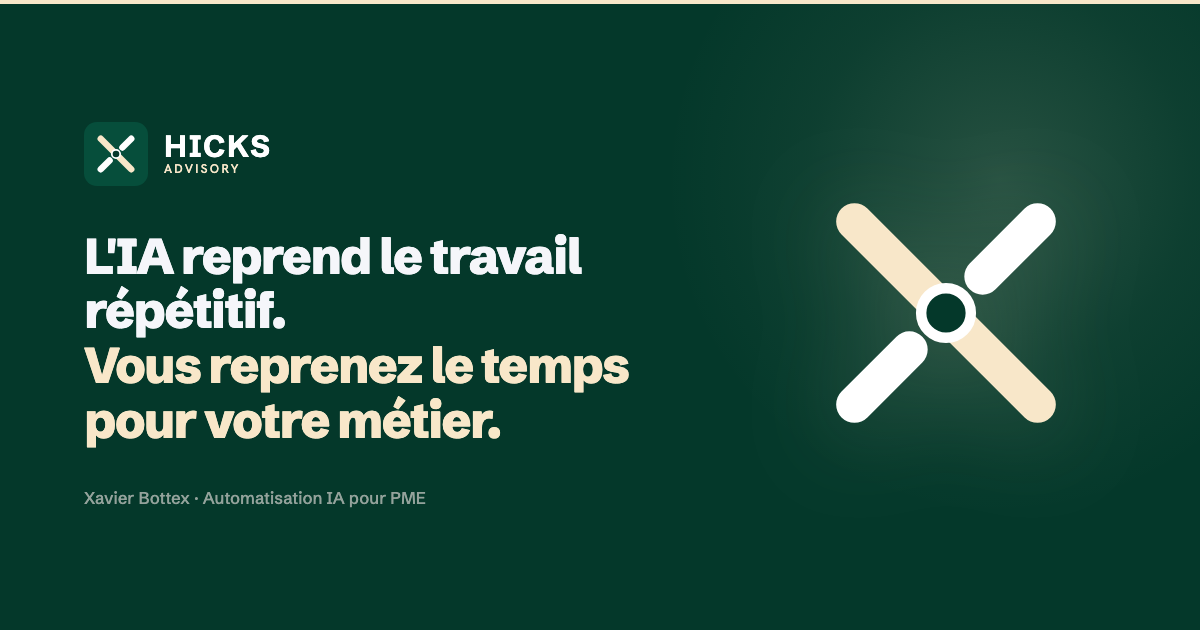
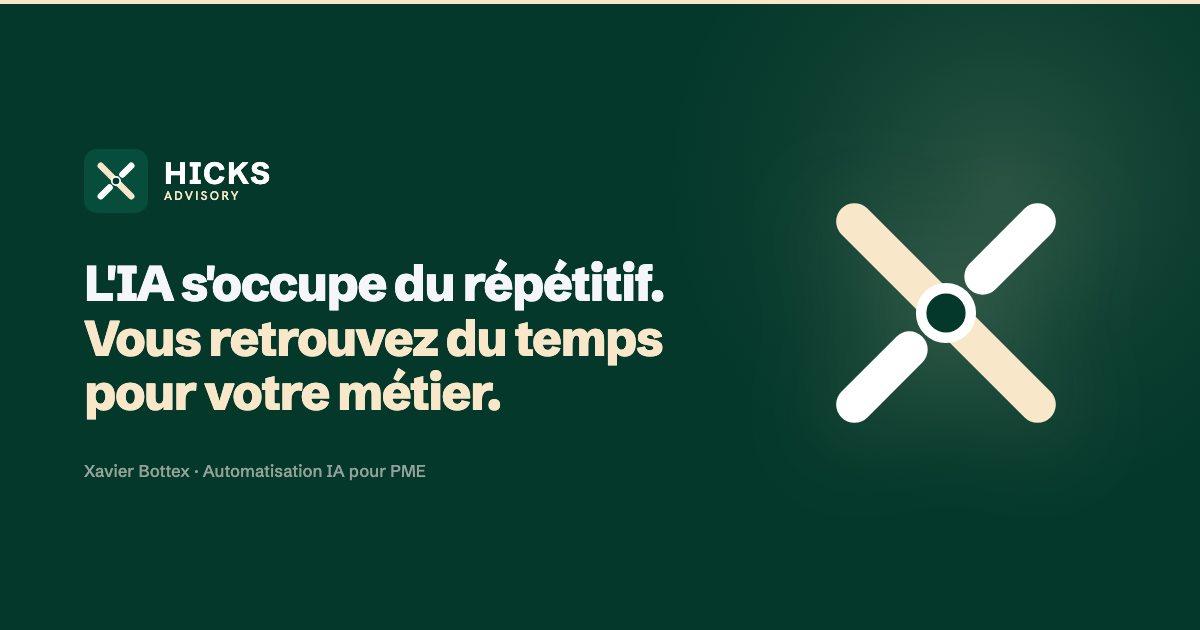
accroche : l'IA ne prend plus rien
« L'IA reprend le travail répétitif » se lisait comme « l'IA prend votre
travail » : meme verbe, seul le prefixe change, et il ne survit pas a une
lecture rapide. Deux mots posaient probleme, « reprend » et surtout « le
travail », qui est identitaire : un dirigeant entend SON travail.

Nouvelle accroche, proposee par Xavier :
  L'IA s'occupe du repetitif.
  Vous retrouvez du temps.

« S'occupe de » place l'IA en position de service. « Retrouvez » suppose que
la chose vous revient, la ou « reprenez » supposait qu'on vous l'avait prise.
Image de partage alignee et regeneree : « Vous retrouvez du temps pour votre
metier », ou la valeur devient concrete.

Claude-Session: https://claude.ai/code/session_017w92AHsRjmTpk2SumMxkXe

Changed region(s): [[0.0617, 0.3619, 0.555, 0.8143], [0.0617, 0.2111, 0.2467, 0.3317]]

diff --git a/index.html b/index.html
@@ -369,7 +369,7 @@
   <div class="wrap hero-grid">
     <div>
       <div class="hero-eyebrow">Automatisation IA souveraine pour PME</div>
-      <h1>L'IA reprend le travail répétitif.<br><span class="hl">Vous reprenez votre temps.</span></h1>
+      <h1>L'IA s'occupe du répétitif.<br><span class="hl">Vous retrouvez du temps.</span></h1>
       <p class="sub">Mails, devis, relances, facturation : traités tout seuls. Vous payez un résultat, pas des jours de régie.</p>
       <div class="cta-row">
         <a class="btn btn-primary" href="https://cal.com/xavier-bottex-dxhdpl/decouverte-20-min">Réserver 20 minutes</a>

diff --git a/og-image-template.html b/og-image-template.html
@@ -50,7 +50,7 @@
           <div class="sub">Advisory</div>
         </div>
       </div>
-      <h1>L'IA reprend le travail répétitif.<span class="coral">Vous reprenez le temps pour votre métier.</span></h1>
+      <h1>L'IA s'occupe du répétitif.<span class="coral">Vous retrouvez du temps pour votre métier.</span></h1>
       <p class="cred">Xavier Bottex · Automatisation IA pour PME</p>
     </div>
     <div class="col-right">
